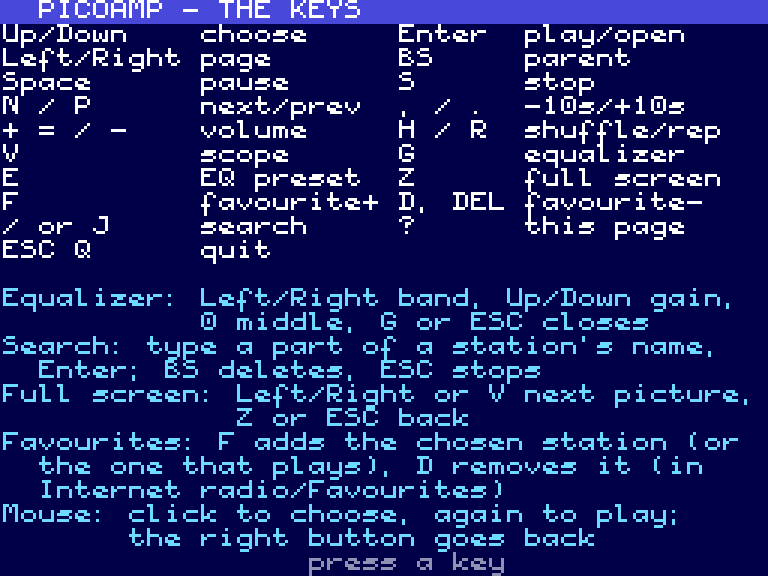
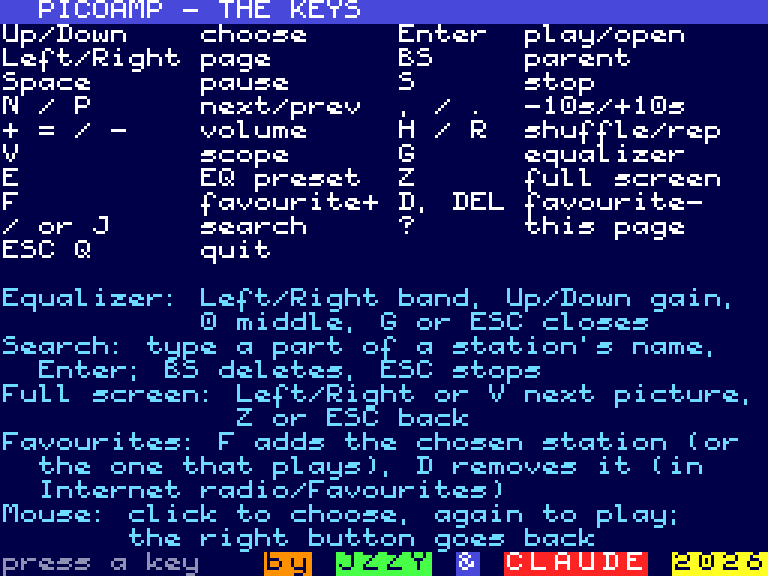
PICOAMP: help page credits - each word changes colour on the beat
Claude-Session: https://claude.ai/code/session_01VosWYuMchL9JAXbd65UZPX

diff --git a/2350/software/msxdos-player/README.md b/2350/software/msxdos-player/README.md
@@ -72,7 +72,7 @@ PICOAMP shows "LOADING THE LIST...".
 | F | Add the chosen station (or the one that plays) to the favourites |
 | D or DEL | Remove the chosen station from the favourites (in Internet radio/Favourites) |
 | / or J | Search the station directory by name |
-| ? | The help page with all the keys (any key closes it) |
+| ? | The help page with all the keys (any key closes it); the credits at its bottom change colour on the beat of the music |
 | ESC / Q | Quit to MSX-DOS (the music keeps playing) |
 
 ### Favourites
